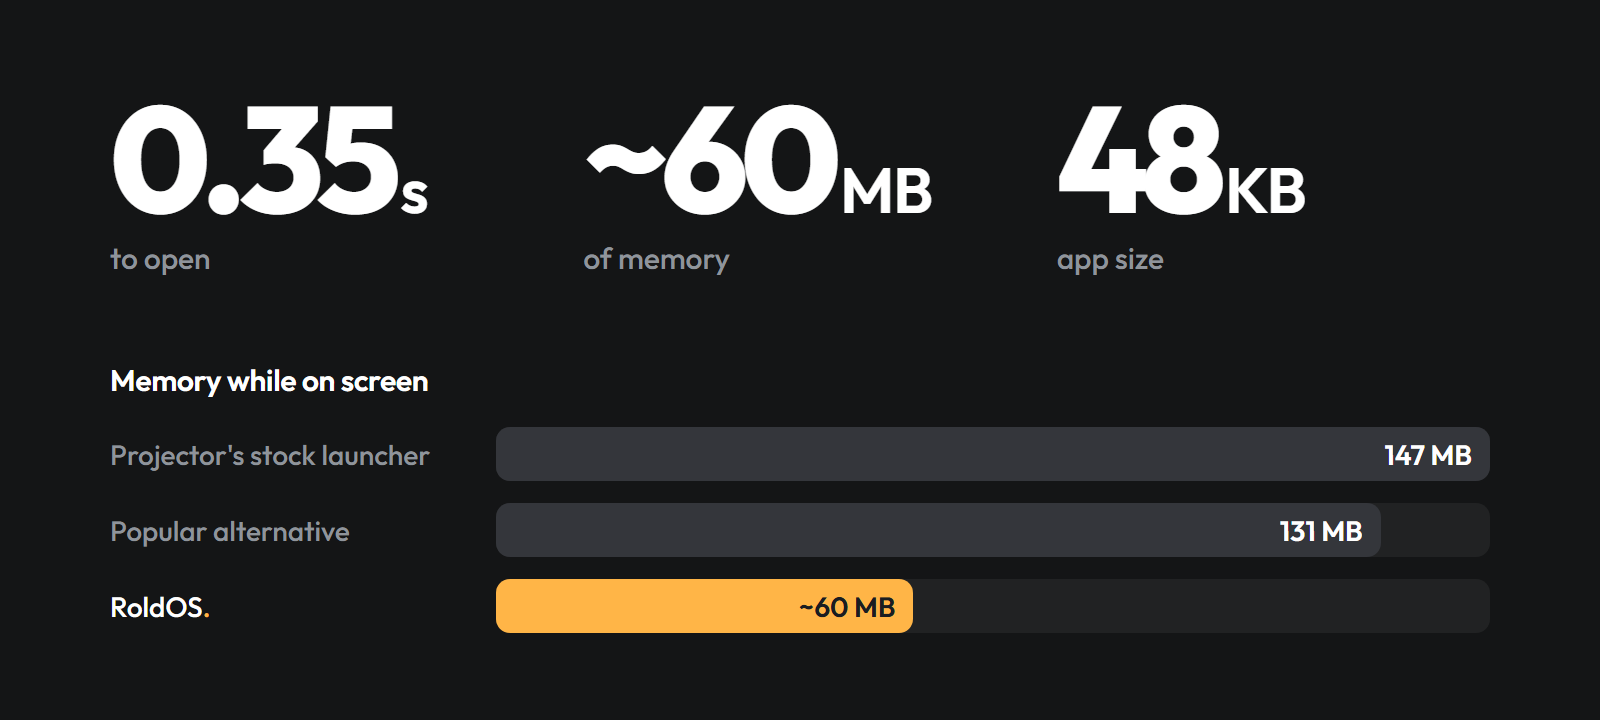
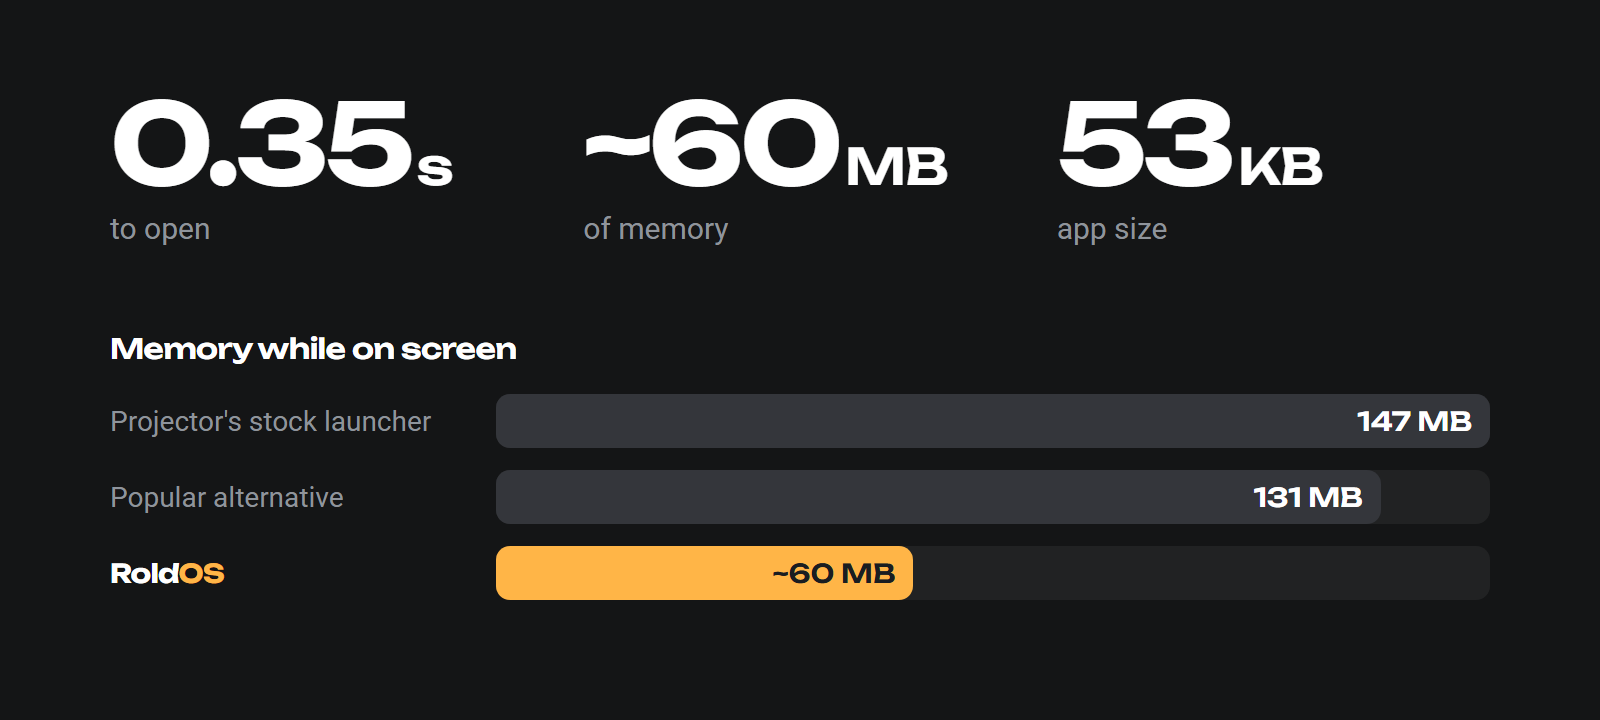
New typography: Unbounded with amber "OS" (choice T1)
Drops the Tandem recipe (Outfit + colored period). Wordmark, app icon and
README images re-rendered; top-bar logo set to 30dp to keep its width.
App size in the stats image updated to the current 53 KB.

Claude-Session: https://claude.ai/code/session_01Lj4wVPVGi7bqhehWZvuH4R

diff --git a/docs/promo/stats.html b/docs/promo/stats.html
@@ -1,6 +1,6 @@
 <!doctype html>
 <html><head><meta charset="utf-8"><title>RoldOS numbers</title>
-<link rel="stylesheet" href="https://fonts.googleapis.com/css2?family=Outfit:wght@400;500;600;800&display=swap">
+<link rel="stylesheet" href="https://fonts.googleapis.com/css2?family=Unbounded:wght@500;600;700&family=Roboto:wght@400;500;700&display=swap">
 <link rel="stylesheet" href="promo.css">
 <style>
   /* Measured on a Magcubic projector (Allwinner H713, 1 GB RAM, Android 11):
@@ -8,30 +8,30 @@
      open = cold start (am start -W TotalTime). See JOURNAL.md. */
   body { width: 1600px; height: 720px; padding: 90px 110px; }
   .big { display: grid; grid-template-columns: repeat(3, 1fr); gap: 40px; }
-  .n { font: 800 150px/0.9 var(--display); letter-spacing: -0.05em; }
-  .n small { font-size: 64px; font-weight: 600; letter-spacing: -0.02em; margin-left: 6px; }
+  .n { font: 700 112px/0.95 var(--display); letter-spacing: -0.04em; }
+  .n small { font-size: 50px; font-weight: 600; letter-spacing: -0.02em; margin-left: 6px; }
   .n i { font-style: normal; color: var(--dot); }
-  .l { font: 500 30px var(--display); color: var(--muted); margin-top: 14px; }
+  .l { font: 400 30px var(--ui); color: var(--muted); margin-top: 14px; }
   .chart { margin-top: 84px; display: grid; gap: 22px; }
-  .chart h3 { font: 600 30px var(--display); margin: 0 0 6px; letter-spacing: -0.01em; }
+  .chart h3 { font: 600 28px var(--display); margin: 0 0 6px; letter-spacing: -0.02em; }
   .bar { display: grid; grid-template-columns: 360px 1fr; align-items: center; gap: 26px; }
-  .bar .who { font: 500 28px var(--display); color: var(--muted); }
+  .bar .who { font: 400 28px var(--ui); color: var(--muted); }
   .bar .who.me { color: #fff; }
   .track { height: 54px; border-radius: 14px; background: rgba(255,255,255,.06); position: relative; }
   .fill { height: 100%; border-radius: 14px; background: #34363b; display: flex; align-items: center;
-    justify-content: flex-end; padding-right: 18px; font: 600 28px var(--display); }
+    justify-content: flex-end; padding-right: 18px; font: 600 26px var(--display); }
   .fill.me { background: var(--dot); color: #1a1d21; }
 </style></head>
 <body>
   <div class="big">
     <div><div class="n">0.35<small>s</small></div><div class="l">to open</div></div>
     <div><div class="n">~60<small>MB</small></div><div class="l">of memory</div></div>
-    <div><div class="n">48<small>KB</small></div><div class="l">app size</div></div>
+    <div><div class="n">53<small>KB</small></div><div class="l">app size</div></div>
   </div>
   <div class="chart">
     <h3>Memory while on screen</h3>
     <div class="bar"><div class="who">Projector's stock launcher</div><div class="track"><div class="fill" style="width:100%">147 MB</div></div></div>
     <div class="bar"><div class="who">Popular alternative</div><div class="track"><div class="fill" style="width:89%">131 MB</div></div></div>
-    <div class="bar"><div class="who me">RoldOS<i style="font-style:normal;color:var(--dot)">.</i></div><div class="track"><div class="fill me" style="width:42%">~60 MB</div></div></div>
+    <div class="bar"><div class="who me" style="font:700 26px var(--display);letter-spacing:-0.03em">Rold<i style="font-style:normal;color:var(--dot)">OS</i></div><div class="track"><div class="fill me" style="width:42%">~60 MB</div></div></div>
   </div>
 </body></html>

diff --git a/docs/promo/brand.html b/docs/promo/brand.html
@@ -1,22 +1,23 @@
 <!doctype html>
 <html><head><meta charset="utf-8"><title>RoldOS brand assets</title>
-<link rel="stylesheet" href="https://fonts.googleapis.com/css2?family=Outfit:wght@600&display=swap">
+<link rel="stylesheet" href="https://fonts.googleapis.com/css2?family=Unbounded:wght@700&display=swap">
 <style>
-  /* Renders one asset per ?a= value; render.ps1 trims transparent edges.
-     wordmark: white "RoldOS" + amber period, transparent background (top bar, left of the clock)
-     icon:     "R." on a graphite rounded square (app icon) */
+  /* Renders one asset per ?a= value; render-brand.ps1 trims transparent edges.
+     Brand (choice T1): Unbounded Bold, white "Rold" + amber "OS".
+     wordmark: transparent background (top bar, left of the clock)
+     icon:     "RO" (amber O) on a graphite rounded square (app icon) */
   html, body { margin: 0; background: transparent; }
-  .wm { font: 600 120px/1 "Outfit", sans-serif; letter-spacing: -0.045em; color: #fff; padding: 20px; display: inline-block; white-space: nowrap; }
+  .wm { font: 700 110px/1 "Unbounded", sans-serif; letter-spacing: -0.03em; color: #fff; padding: 20px; display: inline-block; white-space: nowrap; }
   .wm i { font-style: normal; color: #ffb547; }
   .icon { width: 192px; height: 192px; border-radius: 44px; background: #141516; display: grid; place-items: center; }
-  .icon .wm { font-size: 124px; padding: 0 0 10px 6px; }
+  .icon .wm { font-size: 82px; padding: 0 0 4px 0; letter-spacing: -0.04em; }
 </style></head>
 <body>
   <div id="out"></div>
   <script>
     const a = new URLSearchParams(location.search).get('a') || 'wordmark';
     document.getElementById('out').innerHTML = a === 'icon'
-      ? '<div class="icon"><span class="wm">R<i>.</i></span></div>'
-      : '<span class="wm">RoldOS<i>.</i></span>';
+      ? '<div class="icon"><span class="wm">R<i>O</i></span></div>'
+      : '<span class="wm">Rold<i>OS</i></span>';
   </script>
 </body></html>

diff --git a/docs/promo/promo.css b/docs/promo/promo.css
@@ -1,20 +1,20 @@
 /* Shared look for the README promo images (rendered to docs/images/ with headless Edge).
-   Brand: "RoldOS." in Outfit with an amber period (same recipe as Tandem), on flat graphite. */
+   Brand: "RoldOS" in Unbounded Bold with "OS" in amber (choice T1), on flat graphite. */
 :root {
-  --dot: #ffb547;            /* RoldOS accent (W2 lamp amber): the period. Change here, re-render all. */
+  --dot: #ffb547;            /* RoldOS accent (W2 lamp amber): the "OS". Change here, re-render all. */
   --night: #0c0f1a;
   --night-2: #161c33;
   --ink: #ffffff;
   --muted: #8f949b;
   --bg: #141516;             /* B2 Graphite: flat, no gradient */
-  --display: "Outfit", "Segoe UI", sans-serif;
-  --ui: "Roboto", "Segoe UI", sans-serif;
+  --display: "Unbounded", "Segoe UI", sans-serif;   /* wordmark and headlines */
+  --ui: "Roboto", "Segoe UI", sans-serif;          /* body copy and tiles */
 }
 * { box-sizing: border-box; }
 html, body { margin: 0; }
 body { background: var(--bg);
-  color: var(--ink); font-family: var(--display); overflow: hidden; }
-.wm { font-weight: 600; letter-spacing: -0.045em; line-height: .9; white-space: nowrap; }
+  color: var(--ink); font-family: var(--ui); overflow: hidden; }
+.wm { font-family: var(--display); font-weight: 700; letter-spacing: -0.03em; line-height: 1; white-space: nowrap; }
 .wm i { font-style: normal; color: var(--dot); }
 
 /* RoldOS tiles, same geometry/colors as TileArt.settingsBanner */

diff --git a/docs/promo/tiles.html b/docs/promo/tiles.html
@@ -1,16 +1,15 @@
 <!doctype html>
 <html><head><meta charset="utf-8"><title>RoldOS tiles</title>
-<link rel="stylesheet" href="https://fonts.googleapis.com/css2?family=Outfit:wght@400;500;600;800&family=Roboto:wght@500&display=swap">
+<link rel="stylesheet" href="https://fonts.googleapis.com/css2?family=Unbounded:wght@500;600;700&family=Roboto:wght@400;500;700&display=swap">
 <link rel="stylesheet" href="promo.css">
 <style>
   body { width: 1600px; height: 900px; padding: 86px 110px; }
-  h2 { font: 800 80px/1.02 var(--display); max-width: 1300px; letter-spacing: -0.04em; margin: 0; }
-  h2 i { font-style: normal; color: var(--dot); }
-  p { font: 400 30px/1.4 var(--display); color: var(--muted); margin: 18px 0 0; max-width: 1100px; }
+  h2 { font: 700 62px/1.12 var(--display); max-width: 1300px; letter-spacing: -0.035em; margin: 0; }
+  p { font: 400 30px/1.4 var(--ui); color: var(--muted); margin: 18px 0 0; max-width: 1100px; }
   .grid { display: grid; grid-template-columns: repeat(3, 352px); gap: 34px 44px; margin-top: 62px; }
 </style></head>
 <body>
-  <h2>Quickly access your most important features<i>.</i></h2>
+  <h2>Quickly access your most important features</h2>
   <p>Calibration, inputs and casting live right on the home screen.</p>
   <div class="grid" id="grid"></div>
   <script src="tiles.js"></script>

diff --git a/docs/promo/hero.html b/docs/promo/hero.html
@@ -1,18 +1,17 @@
 <!doctype html>
 <html><head><meta charset="utf-8"><title>RoldOS hero</title>
-<link rel="stylesheet" href="https://fonts.googleapis.com/css2?family=Outfit:wght@400;500;600;800&display=swap">
+<link rel="stylesheet" href="https://fonts.googleapis.com/css2?family=Unbounded:wght@500;600;700&family=Roboto:wght@400;500;700&display=swap">
 <link rel="stylesheet" href="promo.css">
 <style>
   body { width: 1600px; height: 500px; display: flex; align-items: center; }
   .copy { margin-left: 110px; }
-  .wm { font-size: 230px; }
-  .tag { font: 500 56px/1.15 var(--display); letter-spacing: -0.02em; margin-top: 36px; }
-  .tag b { color: var(--dot); font-weight: 600; }
-  .sub { font: 400 28px/1.4 var(--display); color: var(--muted); margin-top: 16px; }
+  .wm { font-size: 188px; }
+  .tag { font: 400 54px/1.15 var(--ui); margin-top: 40px; }
+  .tag b { color: var(--dot); font-weight: 700; }
 </style></head>
 <body>
   <div class="copy">
-    <div class="wm">RoldOS<i>.</i></div>
+    <div class="wm">Rold<i>OS</i></div>
     <div class="tag">Custom <b>light</b> and <b>fast</b> AndroidTV launcher.</div>
   </div>
 </body></html>

diff --git a/app/src/main/java/com/roldos/MainActivity.java b/app/src/main/java/com/roldos/MainActivity.java
@@ -331,13 +331,13 @@ public class MainActivity extends Activity {
         top.setPadding(dp(9), 0, dp(12), dp(6));
         top.setClipChildren(false); // the focused button grows slightly; don't cut its edge
         top.setClipToPadding(false);
-        // Brand, left of the clock: the "RoldOS." wordmark (white, amber period) and a hairline.
+        // Brand, left of the clock: the RoldOS wordmark (Unbounded, white "Rold" + amber "OS") and a hairline.
         ImageView logo = new ImageView(this);
         logo.setImageResource(R.drawable.wordmark);
         logo.setAdjustViewBounds(true);
         logo.setScaleType(ImageView.ScaleType.FIT_START);
         LinearLayout.LayoutParams logoLp = new LinearLayout.LayoutParams(
-                ViewGroup.LayoutParams.WRAP_CONTENT, dp(36));
+                ViewGroup.LayoutParams.WRAP_CONTENT, dp(30)); // Unbounded is wide: 30dp keeps it ~165dp across
         logoLp.setMarginEnd(dp(22));
         top.addView(logo, logoLp);
         View hairline = new View(this);

diff --git a/CLAUDE.md b/CLAUDE.md
@@ -24,11 +24,11 @@ add to it whenever something notable happens (see "Keeping the journal").
 - **Calibration tile → the Projection page**, and Back from there returns to RoldOS.
 - Settings row order: **Calibration, Settings, HDMI, Wireless Cast, Wired Cast,
   Original launcher**. No Wi-Fi tile. Every tile a different color; Settings is blue.
-- Top bar: "RoldOS." wordmark (`res/drawable-xhdpi/wordmark.png`), hairline, clock, and a
+- Top bar: RoldOS wordmark (`res/drawable-xhdpi/wordmark.png`), hairline, clock, and a
   plain text **Close all apps** button (no icon). Closing shows RoldOS's own notice pill
   (instant "Closing apps…", then MB freed), not Android's toast.
 - Background: **B2 Graphite**, flat `#141516`, no gradients (the old navy-purple
-  gradient looked "AI-generated"). Accent: amber `#FFB547`. App icon: "R." on graphite.
+  gradient looked "AI-generated"). Accent: amber `#FFB547`. App icon: "RO" (amber O) on graphite.
 - Favorites reorder like Google TV: hold OK → **Move** → ◀ ▶ → OK.
 - The name under a tile appears **under that tile**, not pinned to the left.
 - The README is promotional: big type and images, little text, **no diagrams**, and
@@ -123,8 +123,9 @@ until it's closed).
   one gradient each). Keep new system tiles in this same family so the brand stays
   consistent.
 - Branding: the name is always **RoldOS** (capital R, O, S; never "roldos" or "Roldos").
-  Wordmark "RoldOS." in Outfit with an **amber** period (#FFB547, choice W2), same recipe
-  as Federico's app Tandem ("tandem."). Promo images live in `docs/promo/` (HTML
+  Wordmark (choice T1): **Unbounded Bold**, white "Rold" + **amber "OS"** (#FFB547). No colored
+  period: that was Tandem's recipe and he wants RoldOS apart from it. Promo headlines use
+  Unbounded, body copy Roboto. Promo images live in `docs/promo/` (HTML
   sources) and are rendered to `docs/images/` with headless Edge.
 - `HomeKeyService` (accessibility): Home key + stock-home bounce + Calibration click.
 - Focus: Android's geometric search can't reach the top-right button from left

diff --git a/JOURNAL.md b/JOURNAL.md
@@ -179,6 +179,15 @@ check what launches it** (e.g. trigger the stock UI and watch
   timeout, or as soon as the remote reports the key as held; the release after a menu
   is swallowed so the app doesn't open. Tiles are no longer View long-clickable.
 
+## 2026-11-09: Own typography, apart from Tandem
+
+- **Decision (Federico):** drop the Tandem look (Outfit + colored period). Six
+  typography candidates (T1–T6) were shown in the identity artifact; he chose **T1**:
+  **Unbounded Bold**, white "Rold" + amber "OS". App icon is "RO" with an amber O.
+- Wordmark and icon re-rendered from `brand.html`; the top-bar logo is now 30 dp tall
+  (Unbounded is wider than Outfit, so it keeps about the same width). README images use
+  Unbounded for headlines and Roboto for body text; no amber period anywhere.
+
 ## Ideas / not done yet
 
 - Show "No signal" or "Connected" on the HDMI tile (TvInputManager state).

diff --git a/README.md b/README.md
@@ -10,7 +10,7 @@
 </p>
 
 <p align="center">
-  <img src="docs/images/stats.png" alt="0.35 s to open, about 60 MB of memory, 48 KB app. Memory on screen: stock launcher 147 MB, popular alternative 131 MB, RoldOS about 60 MB." width="100%">
+  <img src="docs/images/stats.png" alt="0.35 s to open, about 60 MB of memory, 53 KB app. Memory on screen: stock launcher 147 MB, popular alternative 131 MB, RoldOS about 60 MB." width="100%">
 </p>
 
 <p align="center">
